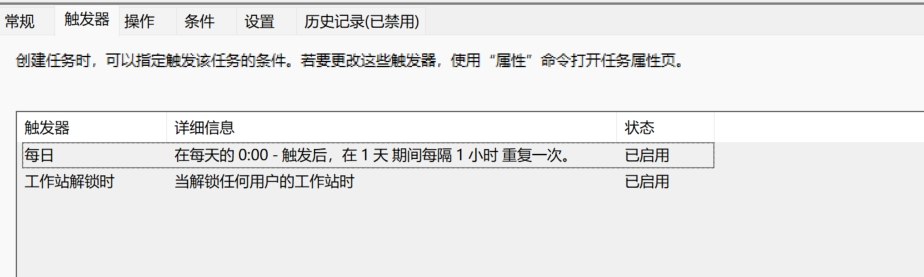
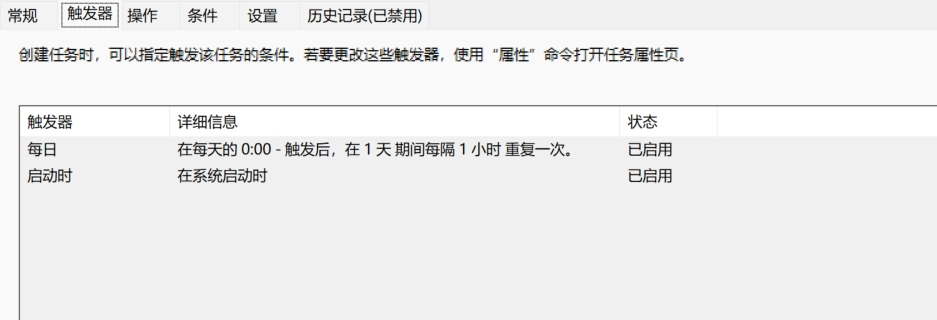
fix response.text incorrect

Changed region(s): [[0.0, 0.3177, 1.0, 1.0], [0.0, 0.1444, 0.7576, 0.2599], [0.0, 0.0, 1.0, 0.1155]]

diff --git a/net.py b/net.py
@@ -5,7 +5,7 @@ import requests
 import time
 from tkinter import messagebox
 import subprocess
-from requests.adapters import HTTPAdapter
+import re
 def get_current_wlan_name():
     try:
         # 使用 netsh 命令获取 WLAN 名称
@@ -50,16 +50,17 @@ def connect(user, passwd, num):
 
     # 构造请求体
     url = "https://p.njupt.edu.cn:802/eportal/portal/login?callback=dr1003&login_method=1&user_account=%2C0%2C"+user+"%40cmcc&user_password="+passwd+"&wlan_user_ip="+wlan_ip+"&wlan_user_ipv6=&wlan_user_mac=000000000000&wlan_ac_ip=&wlan_ac_name=&jsVersion=4.1.3&terminal_type=1&lang=zh-cn&v=3140&lang=zh"
-    
     try:
         response = requests.get(url)
 
         # 检查响应状态码
-        if response.status_code == 200:
+        if response.status_code == 200 and ("错误" not in response.text):
             # 打印响应内容
             print("连接成功")
         else:
-            print(f"失败: {response.status_code} - {response.reason}")
+            print(f"失败: {response.status_code} - {response.text}")
+            msg = re.search(r'"msg":"(.*?)"', response.text)
+            messagebox.showwarning("警告", "网页报错：" + msg.group(1))
     except requests.exceptions.ProxyError as e:
         err = e
         messagebox.showwarning("警告","取消代理后关闭对话框重试\n 或将`p.njupt.edu.cn;`添加系统代理设置")

diff --git a/README.md b/README.md
@@ -17,8 +17,9 @@ D:/Program/miniconda3/envs/net/python.exe e:/code/py/auto_con/net.py
 
 ![图片](https://raw.githubusercontent.com/AA1HSHH/auto_con/master/img.png)
 
-第一项是定时任务
-第二项是解锁屏幕的时候联网，远程主机不要配置
+第一项定时任务执行，可用于长期在线主机
+
+第二项电脑启动时执行
 
 ## 报错
 ### ProxyError
